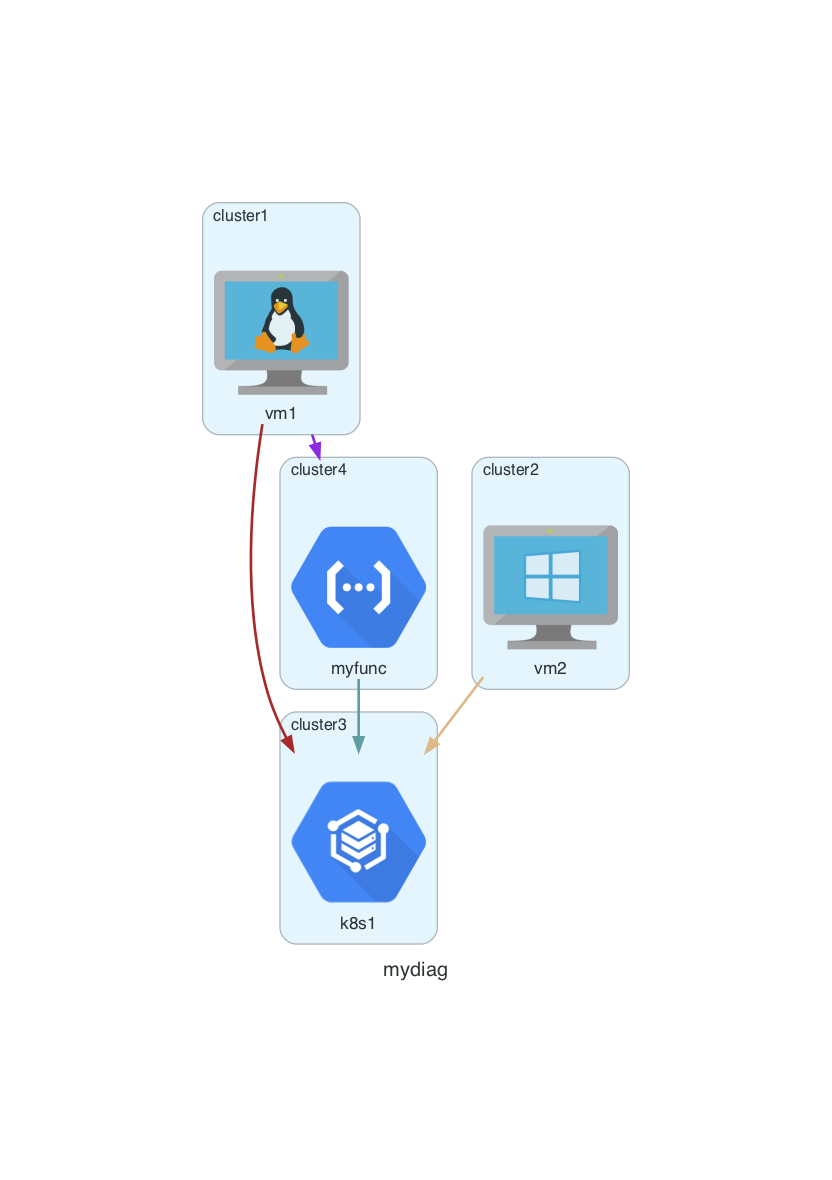
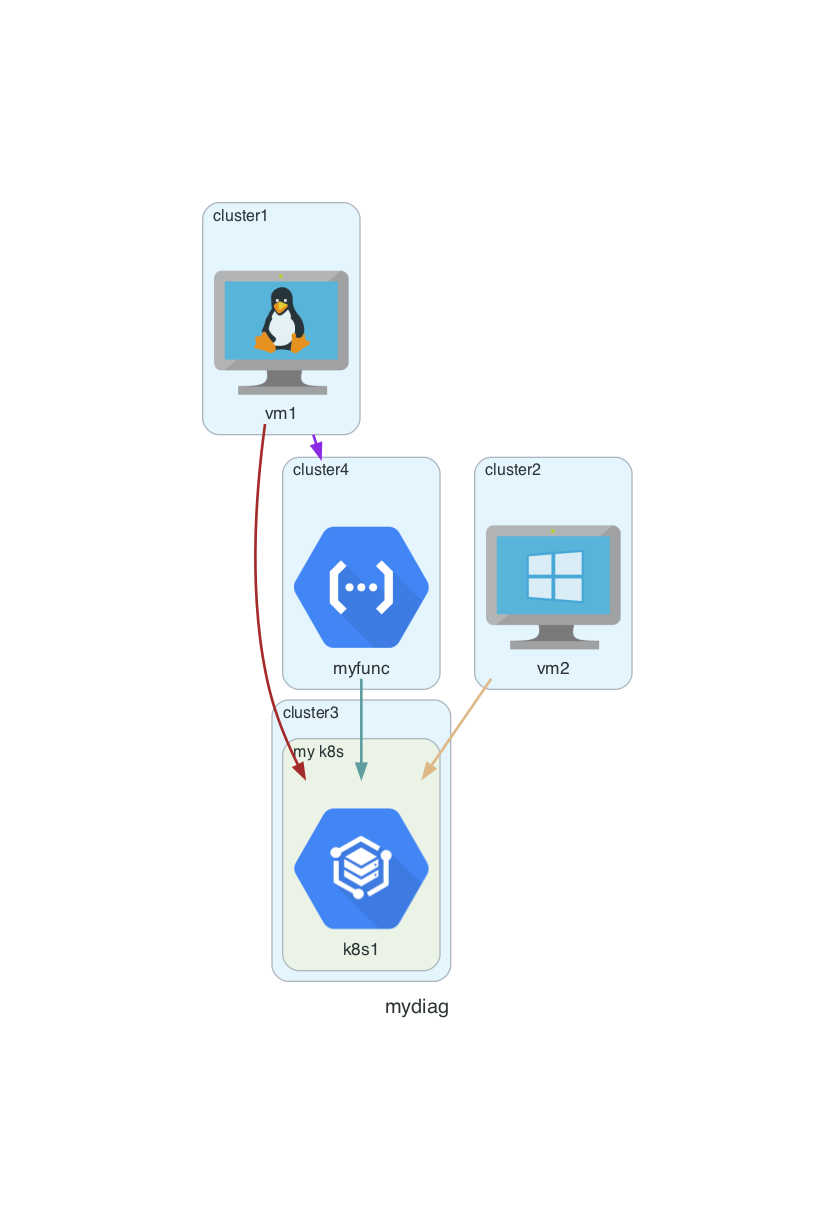
update

Changed region(s): [[0.2188, 0.1525, 0.7812, 0.8542]]

diff --git a/README.md b/README.md
@@ -24,8 +24,9 @@ cluster2:
     - k8s1
 
 cluster3:
-  k8s1:
-    - diagrams.gcp.compute.GKEOnPrem
+  my k8s:
+    k8s1:
+      - diagrams.gcp.compute.GKEOnPrem
 
 
 cluster4:
